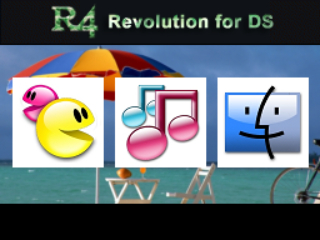
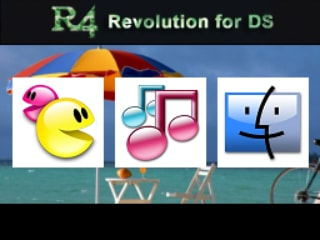
optimize some image files

diff --git a/gui/source/main.cpp b/gui/source/main.cpp
@@ -1590,7 +1590,7 @@ int main()
 					switch (settings.ui.subtheme) {
 						case 0:
 						default:
-							topbgtex = sfil_load_PNG_file("romfs:/graphics/wood/gbatemp/upper_screen.png", SF2D_PLACE_RAM); // Top background
+							topbgtex = sfil_load_JPEG_file("romfs:/graphics/wood/gbatemp/upper_screen.jpg", SF2D_PLACE_RAM); // Top background
 							break;
 						case 1:
 							topbgtex = sfil_load_PNG_file("romfs:/graphics/wood/black/upper_screen.png", SF2D_PLACE_RAM); // Top background
@@ -1604,24 +1604,24 @@ int main()
 							topbgtex = sfil_load_JPEG_file("romfs:/graphics/r4/theme01/bckgrd_1.jpg", SF2D_PLACE_RAM); // Top background
 							break;
 						case 1:
-							toplogotex = sfil_load_PNG_file("romfs:/graphics/r4/theme02/logo.png", SF2D_PLACE_RAM); // Top logo
-							topbgtex = sfil_load_PNG_file("romfs:/graphics/r4/theme02/bckgrd_1.png", SF2D_PLACE_RAM); // Top background
+							toplogotex = sfil_load_JPEG_file("romfs:/graphics/r4/theme02/logo.jpg", SF2D_PLACE_RAM); // Top logo
+							topbgtex = sfil_load_JPEG_file("romfs:/graphics/r4/theme02/bckgrd_1.jpg", SF2D_PLACE_RAM); // Top background
 							break;
 						case 2:
-							toplogotex = sfil_load_PNG_file("romfs:/graphics/r4/theme03/logo.png", SF2D_PLACE_RAM); // Top logo
-							topbgtex = sfil_load_PNG_file("romfs:/graphics/r4/theme03/bckgrd_1.png", SF2D_PLACE_RAM); // Top background
+							toplogotex = sfil_load_JPEG_file("romfs:/graphics/r4/theme03/logo.jpg", SF2D_PLACE_RAM); // Top logo
+							topbgtex = sfil_load_JPEG_file("romfs:/graphics/r4/theme03/bckgrd_1.jpg", SF2D_PLACE_RAM); // Top background
 							break;
 						case 3:
-							toplogotex = sfil_load_PNG_file("romfs:/graphics/r4/theme04/logo.png", SF2D_PLACE_RAM); // Top logo
-							topbgtex = sfil_load_PNG_file("romfs:/graphics/r4/theme04/bckgrd_1.png", SF2D_PLACE_RAM); // Top background
+							toplogotex = sfil_load_JPEG_file("romfs:/graphics/r4/theme04/logo.jpg", SF2D_PLACE_RAM); // Top logo
+							topbgtex = sfil_load_JPEG_file("romfs:/graphics/r4/theme04/bckgrd_1.jpg", SF2D_PLACE_RAM); // Top background
 							break;
 						case 4:
-							toplogotex = sfil_load_PNG_file("romfs:/graphics/r4/theme05/logo.png", SF2D_PLACE_RAM); // Top logo
-							topbgtex = sfil_load_PNG_file("romfs:/graphics/r4/theme05/bckgrd_1.png", SF2D_PLACE_RAM); // Top background
+							toplogotex = sfil_load_JPEG_file("romfs:/graphics/r4/theme05/logo.jpg", SF2D_PLACE_RAM); // Top logo
+							topbgtex = sfil_load_JPEG_file("romfs:/graphics/r4/theme05/bckgrd_1.jpg", SF2D_PLACE_RAM); // Top background
 							break;
 						case 5:
-							toplogotex = sfil_load_PNG_file("romfs:/graphics/r4/theme06/logo.png", SF2D_PLACE_RAM); // Top logo
-							topbgtex = sfil_load_PNG_file("romfs:/graphics/r4/theme06/bckgrd_1.png", SF2D_PLACE_RAM); // Top background
+							toplogotex = sfil_load_JPEG_file("romfs:/graphics/r4/theme06/logo.jpg", SF2D_PLACE_RAM); // Top logo
+							topbgtex = sfil_load_JPEG_file("romfs:/graphics/r4/theme06/bckgrd_1.jpg", SF2D_PLACE_RAM); // Top background
 							break;
 						case 6:
 							toplogotex = sfil_load_JPEG_file("romfs:/graphics/r4/theme07/logo.jpg", SF2D_PLACE_RAM); // Top logo
@@ -2492,7 +2492,7 @@ int main()
 						switch (settings.ui.subtheme) {
 							case 0:
 							default:
-								bottomtex = sfil_load_PNG_file("romfs:/graphics/wood/gbatemp/lower_screen.png", SF2D_PLACE_RAM); // Bottom of menu
+								bottomtex = sfil_load_JPEG_file("romfs:/graphics/wood/gbatemp/lower_screen.jpg", SF2D_PLACE_RAM); // Bottom of menu
 								break;
 							case 1:
 								bottomtex = sfil_load_PNG_file("romfs:/graphics/wood/black/lower_screen.png", SF2D_PLACE_RAM); // Bottom of menu
@@ -2506,28 +2506,28 @@ int main()
 								bottomtex = sfil_load_PNG_file("romfs:/graphics/r4/theme01/bckgrd_2.png", SF2D_PLACE_RAM); // Bottom of rom select
 								break;
 							case 1:
-								iconstex = sfil_load_PNG_file("romfs:/graphics/r4/theme02/icons.png", SF2D_PLACE_RAM); // Bottom of menu
+								iconstex = sfil_load_JPEG_file("romfs:/graphics/r4/theme02/icons.jpg", SF2D_PLACE_RAM); // Bottom of menu
 								bottomtex = sfil_load_PNG_file("romfs:/graphics/r4/theme02/bckgrd_2.png", SF2D_PLACE_RAM); // Bottom of rom select
 								break;
 							case 2:
-								iconstex = sfil_load_PNG_file("romfs:/graphics/r4/theme03/icons.png", SF2D_PLACE_RAM); // Bottom of menu
+								iconstex = sfil_load_JPEG_file("romfs:/graphics/r4/theme03/icons.jpg", SF2D_PLACE_RAM); // Bottom of menu
 								bottomtex = sfil_load_PNG_file("romfs:/graphics/r4/theme03/bckgrd_2.png", SF2D_PLACE_RAM); // Bottom of rom select
 								break;
 							case 3:
-								iconstex = sfil_load_PNG_file("romfs:/graphics/r4/theme04/icons.png", SF2D_PLACE_RAM); // Bottom of menu
+								iconstex = sfil_load_JPEG_file("romfs:/graphics/r4/theme04/icons.jpg", SF2D_PLACE_RAM); // Bottom of menu
 								bottomtex = sfil_load_PNG_file("romfs:/graphics/r4/theme04/bckgrd_2.png", SF2D_PLACE_RAM); // Bottom of rom select
 								break;
 							case 4:
-								iconstex = sfil_load_PNG_file("romfs:/graphics/r4/theme05/icons.png", SF2D_PLACE_RAM); // Bottom of menu
+								iconstex = sfil_load_JPEG_file("romfs:/graphics/r4/theme05/icons.jpg", SF2D_PLACE_RAM); // Bottom of menu
 								bottomtex = sfil_load_PNG_file("romfs:/graphics/r4/theme05/bckgrd_2.png", SF2D_PLACE_RAM); // Bottom of rom select
 								break;
 							case 5:
-								iconstex = sfil_load_PNG_file("romfs:/graphics/r4/theme06/icons.png", SF2D_PLACE_RAM); // Bottom of menu
+								iconstex = sfil_load_JPEG_file("romfs:/graphics/r4/theme06/icons.jpg", SF2D_PLACE_RAM); // Bottom of menu
 								bottomtex = sfil_load_PNG_file("romfs:/graphics/r4/theme06/bckgrd_2.png", SF2D_PLACE_RAM); // Bottom of rom select
 								break;
 							case 6:
-								iconstex = sfil_load_JPEG_file("romfs:/graphics/r4/theme06/icons.jpg", SF2D_PLACE_RAM); // Bottom of menu
-								bottomtex = sfil_load_PNG_file("romfs:/graphics/r4/theme06/bckgrd_2.png", SF2D_PLACE_RAM); // Bottom of rom select
+								iconstex = sfil_load_JPEG_file("romfs:/graphics/r4/theme07/icons.jpg", SF2D_PLACE_RAM); // Bottom of menu
+								bottomtex = sfil_load_PNG_file("romfs:/graphics/r4/theme07/bckgrd_2.png", SF2D_PLACE_RAM); // Bottom of rom select
 								break;
 						}
 					} else {
